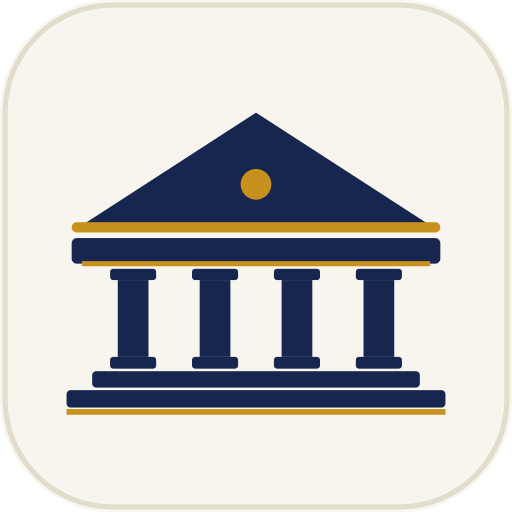
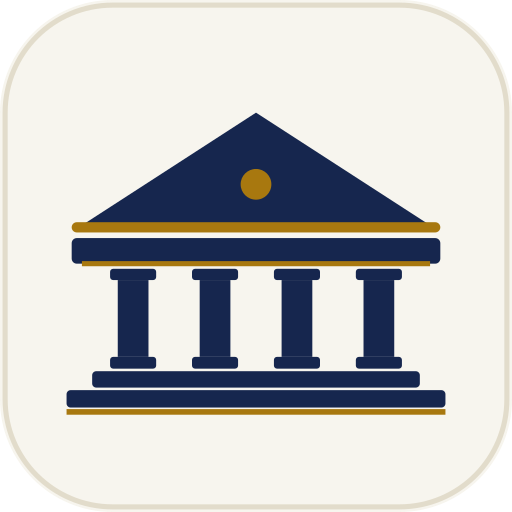
test(brand): pin elevated-mark geometry + AA-floor the light-tile gold
Add tests/brand-mark-geometry.test.ts (30 cases) pinning the ONE canonical
elevated-temple geometry across every surface (seal SVGs, <GreekstackLogo>, the
maskable icon, the mobile-shell crest): pediment + entablature, four shafts at
x=23/39/55/71, capitals + bases on every column, the gold cornice/medallion/
architrave/floor, and the stepped stylobate — so a regression back to plain
rectangles or a drifted shape fails CI. Also pins both palettes + their WCAG AA
contrast and proves the cream raster reference is gone.

Extend mobile-shell-brand.test.ts (+3 cases) to guard the elevated crest on the
shell specifically (both crests on the 100-unit grid, capitals/bases, gold).

AA fix: darkened the LIGHT-tile gold #C8901C → #A8780F (hue preserved) so the
accents clear graphical-object AA (3.59:1 vs 2.58:1) against the ivory tile; the
navy-seal gold #E8B53A already clears 9:1. Regenerated app/icon.png +
app/apple-icon.png from the corrected light seal.

Gates: tsc 0 · vitest 1369/74 · next lint clean.

Changed region(s): [[0.125, 0.3125, 0.875, 0.4688], [0.125, 0.7812, 0.875, 0.8125], [0.1562, 0.5, 0.8438, 0.5312]]

diff --git a/tests/brand-mark-geometry.test.ts b/tests/brand-mark-geometry.test.ts
@@ -1,0 +1,147 @@
+import { describe, it, expect } from "vitest";
+import { readFileSync } from "node:fs";
+import { resolve } from "node:path";
+import { contrastRatio } from "@/lib/brand-theme";
+
+/**
+ * BRAND-MARK GEOMETRY GATE — pins the ONE canonical elevated-temple mark.
+ * ----------------------------------------------------------------------
+ * The owner re-approved the classical temple but rejected the prior execution
+ * as "generic AI slop" (flat-rectangle columns on a muddy cream raster). The
+ * elevated mark adds the craft tells: columns WITH capitals + bases, a gold
+ * cornice + medallion (oculus) + architrave + floor, and a stepped stylobate.
+ *
+ * This gate proves:
+ *   1. Every surface that paints the mark (the seal SVGs, <GreekstackLogo>, the
+ *      maskable PWA icon, and the mobile-shell crest) carries the SAME canonical
+ *      geometry on the 100-unit grid — so the mark can NEVER drift.
+ *   2. The craft features (capitals, bases, gold accents, stepped stylobate)
+ *      are present everywhere — a regression back to plain rectangles fails CI.
+ *   3. The cream navy-temple raster is gone (no source reference to it).
+ *   4. The navy/ivory/gold palettes all clear WCAG AA.
+ */
+
+const ROOT = resolve(__dirname, "..");
+const read = (p: string) => readFileSync(resolve(ROOT, p), "utf8");
+
+const SEAL_NAVY = read("brand/greekstack-seal.svg");
+const SEAL_LIGHT = read("brand/greekstack-seal-light.svg");
+const LOGO = read("components/brand/greekstack-logo.tsx");
+const MASKABLE = read("app/maskable-icon/route.tsx");
+const SHELL = read("mobile-shell/index.html");
+
+// ── The canonical geometry fingerprints (the 100-unit grid) ──────────────────
+// These exact path/rect strings are the load-bearing shape. If any surface
+// drifts from them, this gate fails and the mark de-syncs.
+const PEDIMENT = "M16 44 L50 22 L84 44 Z";
+const ENTABLATURE = '"14" y="46.5" width="72" height="5"';
+// A column's capital + shaft + base at shaft-x 23 (the leftmost column).
+const CAPITAL_23 = '"21.5" y="52.5" width="9" height="2.2"';
+const SHAFT_23 = '"23" y="54.7" width="6" height="15"';
+const BASE_23 = '"21.5" y="69.7" width="9" height="2.3"';
+// The four shafts sit at x = 23, 39, 55, 71 (w6 each).
+const SHAFTS = [
+  '"23" y="54.7" width="6" height="15"',
+  '"39" y="54.7" width="6" height="15"',
+  '"55" y="54.7" width="6" height="15"',
+  '"71" y="54.7" width="6" height="15"',
+];
+// Gold accents + stepped stylobate.
+const GOLD_CORNICE = '"14" y="43.4" width="72" height="2"';
+const GOLD_MEDALLION = 'cx="50" cy="36" r="3"';
+const GOLD_ARCHITRAVE = '"16" y="51" width="68" height="1"';
+const GOLD_FLOOR = '"13" y="79.9" width="74" height="1.1"';
+const STYLOBATE_STEP1 = '"18" y="72.5" width="64" height="3.2"';
+const STYLOBATE_STEP2 = '"13" y="76.2" width="74" height="3.4"';
+
+const SURFACES: Array<[string, string]> = [
+  ["seal (navy)", SEAL_NAVY],
+  ["seal (light)", SEAL_LIGHT],
+  ["GreekstackLogo", LOGO],
+  ["maskable icon", MASKABLE],
+  ["mobile-shell crest", SHELL],
+];
+
+describe("brand mark — one canonical elevated-temple geometry on every surface", () => {
+  it.each(SURFACES)("%s carries the canonical pediment + entablature", (_name, src) => {
+    expect(src).toContain(PEDIMENT);
+    expect(src).toContain(ENTABLATURE);
+  });
+
+  it.each(SURFACES)("%s has all four column shafts at x=23/39/55/71", (_name, src) => {
+    for (const shaft of SHAFTS) expect(src).toContain(shaft);
+  });
+
+  it.each(SURFACES)("%s gives columns CAPITALS + BASES (not plain rectangles)", (_name, src) => {
+    // The capital + base of the leftmost column must be present everywhere —
+    // this is the single biggest "crafted vs AI-slop" tell.
+    expect(src).toContain(CAPITAL_23);
+    expect(src).toContain(BASE_23);
+    expect(src).toContain(SHAFT_23);
+  });
+
+  it.each(SURFACES)("%s has the restrained gold accents + stepped stylobate", (_name, src) => {
+    expect(src).toContain(GOLD_CORNICE);
+    expect(src).toContain(GOLD_MEDALLION);
+    expect(src).toContain(GOLD_ARCHITRAVE);
+    expect(src).toContain(GOLD_FLOOR);
+    expect(src).toContain(STYLOBATE_STEP1);
+    expect(src).toContain(STYLOBATE_STEP2);
+  });
+});
+
+describe("brand mark — the cream AI-slop raster is gone", () => {
+  it("no surface references the deleted cream temple raster", () => {
+    for (const [, src] of SURFACES) {
+      // The only allowed mention is a comment in the generators documenting the
+      // replacement; the rendering surfaces must not reference the PNG at all.
+      expect(src).not.toMatch(/greekstack-mark(-alt)?\.png["')]/);
+    }
+  });
+
+  it("the React logo renders an inline vector, not an <img> raster", () => {
+    expect(LOGO).toContain("<svg");
+    expect(LOGO).toContain('viewBox="0 0 100 100"');
+    expect(LOGO).not.toMatch(/<img[\s>]/);
+  });
+});
+
+describe("brand mark — two presentations, one geometry", () => {
+  it("the navy seal uses the deep-navy tile + ivory temple + gold accents", () => {
+    expect(SEAL_NAVY).toContain('fill="#0B1B3A"'); // tile
+    expect(SEAL_NAVY).toContain('fill="#F4F1E6"'); // temple
+    expect(SEAL_NAVY).toContain('fill="#E8B53A"'); // gold
+  });
+
+  it("the light tile uses ivory tile + navy temple + AA-floored gold", () => {
+    expect(SEAL_LIGHT).toContain('fill="#F7F5EE"'); // tile
+    expect(SEAL_LIGHT).toContain('fill="#16264E"'); // temple
+    expect(SEAL_LIGHT).toContain('fill="#A8780F"'); // gold (AA-floored)
+  });
+
+  it("the React component defines both LIGHT and DARK palettes", () => {
+    expect(LOGO).toMatch(/tile:\s*"#F7F5EE"/); // light tile
+    expect(LOGO).toMatch(/temple:\s*"#16264E"/); // light temple
+    expect(LOGO).toMatch(/gold:\s*"#A8780F"/); // light gold (AA-floored)
+    expect(LOGO).toMatch(/tile:\s*"#0B1B3A"/); // dark tile
+    expect(LOGO).toMatch(/temple:\s*"#F4F1E6"/); // dark temple
+    expect(LOGO).toMatch(/gold:\s*"#E8B53A"/); // dark gold
+  });
+});
+
+describe("brand mark — palettes clear WCAG AA", () => {
+  it("navy seal: ivory temple + gold accents read on the deep-navy tile", () => {
+    // Primary figure (temple) must clear text-grade AA (4.5:1); gold accents
+    // must clear graphical-object AA (3:1).
+    expect(contrastRatio("#F4F1E6", "#0B1B3A")).toBeGreaterThanOrEqual(4.5);
+    expect(contrastRatio("#E8B53A", "#0B1B3A")).toBeGreaterThanOrEqual(3);
+  });
+
+  it("light tile: navy temple + gold accents read on the ivory tile", () => {
+    expect(contrastRatio("#16264E", "#F7F5EE")).toBeGreaterThanOrEqual(4.5);
+    // The AA-floored gold #A8780F clears 3:1 as a graphical object on ivory;
+    // the prior #C8901C (2.58:1) would fail — guard the regression.
+    expect(contrastRatio("#A8780F", "#F7F5EE")).toBeGreaterThanOrEqual(3);
+    expect(contrastRatio("#C8901C", "#F7F5EE")).toBeLessThan(3);
+  });
+});

diff --git a/tests/mobile-shell-brand.test.ts b/tests/mobile-shell-brand.test.ts
@@ -48,6 +48,35 @@ describe("bundled iOS shell — brand parity (no 7-color hash)", () => {
 });
 
 /**
+ * The mobile-shell crest must be the ELEVATED canonical temple (capitals +
+ * bases + gold accents + stepped stylobate), identical geometry to the seal
+ * SVGs / <GreekstackLogo> / the maskable icon — NOT the old flat-rectangle
+ * 0-24 temple the owner flagged as "AI slop". (Cross-surface geometry parity is
+ * pinned exhaustively in brand-mark-geometry.test.ts; this guards the SHELL.)
+ */
+describe("bundled iOS shell — elevated temple crest geometry", () => {
+  it("both crests (boot SVG + CREST_SVG string) use the 100-unit grid, not 0-24", () => {
+    // Two occurrences: the boot-screen inline SVG + the topbar CREST_SVG string.
+    const matches = SHELL.match(/M16 44 L50 22 L84 44 Z/g) || [];
+    expect(matches.length).toBe(2);
+    // The old flat-column geometry must be gone.
+    expect(SHELL).not.toContain("M2.6 8.6 12 3.2l9.4 5.4H2.6Z");
+  });
+
+  it("the crest columns have capitals + bases (not plain rectangles)", () => {
+    // Leftmost column: capital y52.5 + base y69.7 (×2 — boot + CREST_SVG).
+    expect((SHELL.match(/y="52\.5" width="9" height="2\.2"/g) || []).length).toBeGreaterThanOrEqual(2);
+    expect((SHELL.match(/y="69\.7" width="9" height="2\.3"/g) || []).length).toBeGreaterThanOrEqual(2);
+  });
+
+  it("the crest carries the gold accents (cornice + medallion + floor)", () => {
+    expect(SHELL).toContain("#E8B53A"); // the crest gold accent fill
+    expect((SHELL.match(/cx="50" cy="36" r="3"/g) || []).length).toBe(2); // medallion ×2
+    expect((SHELL.match(/y="43\.4" width="72" height="2"/g) || []).length).toBe(2); // cornice ×2
+  });
+});
+
+/**
  * Evaluate the shell's pure brand helpers (safeHex / darken / brandFor) in a VM
  * sandbox to prove RUNTIME behavior, not just the presence of source strings.
  */

diff --git a/components/brand/greekstack-logo.tsx b/components/brand/greekstack-logo.tsx
@@ -21,7 +21,8 @@ import { cn } from "@/lib/utils";
  *
  * TWO presentations, ONE geometry:
  *   • LIGHT (default) — ivory tile #F7F5EE (hairline border #E2DCCB), navy
- *     temple #16264E, gold accents #C8901C. The in-app / header / wordmark mark.
+ *     temple #16264E, gold accents #A8780F (AA-floored 3.59:1 on ivory). The
+ *     in-app / header / wordmark mark.
  *   • DARK / navy seal — deep-navy tile #0B1B3A, ivory temple #F4F1E6, gold
  *     accents #E8B53A. Matches the iOS home-screen AppIcon.
  *
@@ -47,7 +48,7 @@ const LIGHT = {
   tile: "#F7F5EE",
   border: "#E2DCCB",
   temple: "#16264E",
-  gold: "#C8901C",
+  gold: "#A8780F",
 } as const;
 
 /** DARK navy-seal palette — matches the iOS home-screen AppIcon. */
